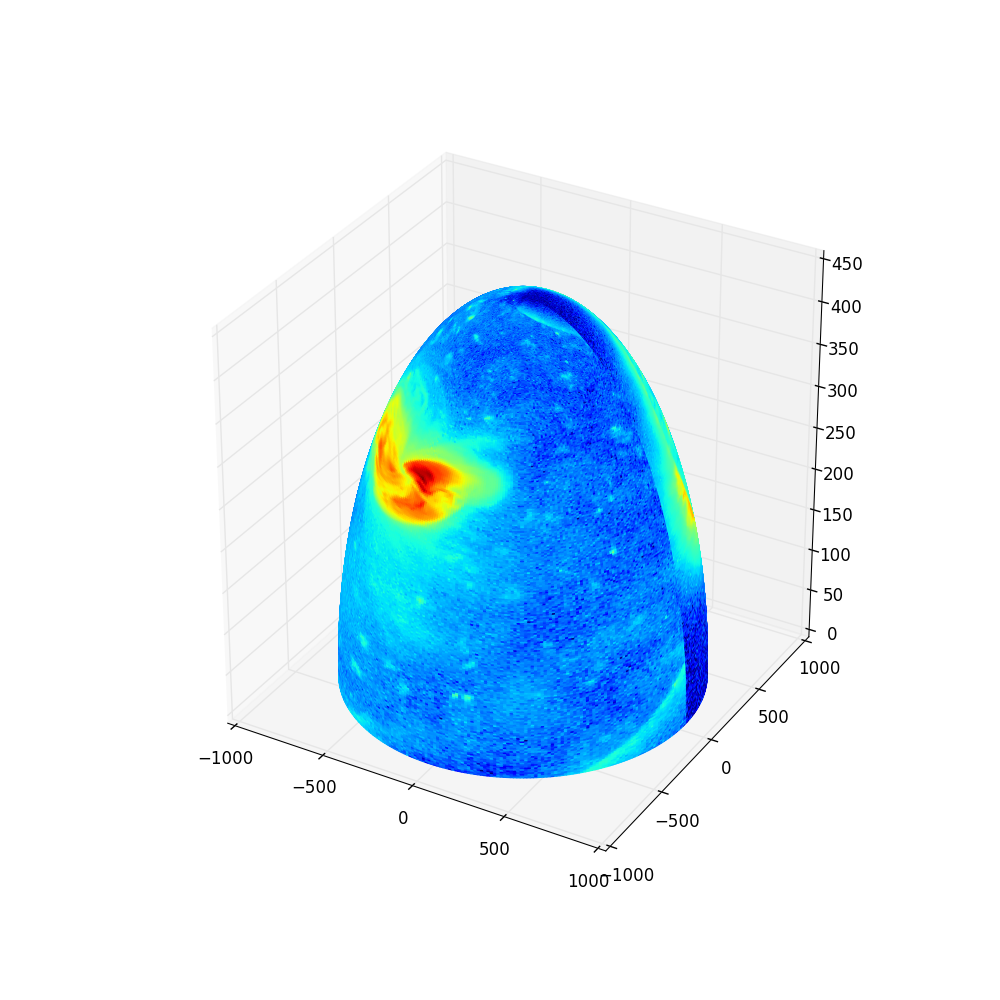
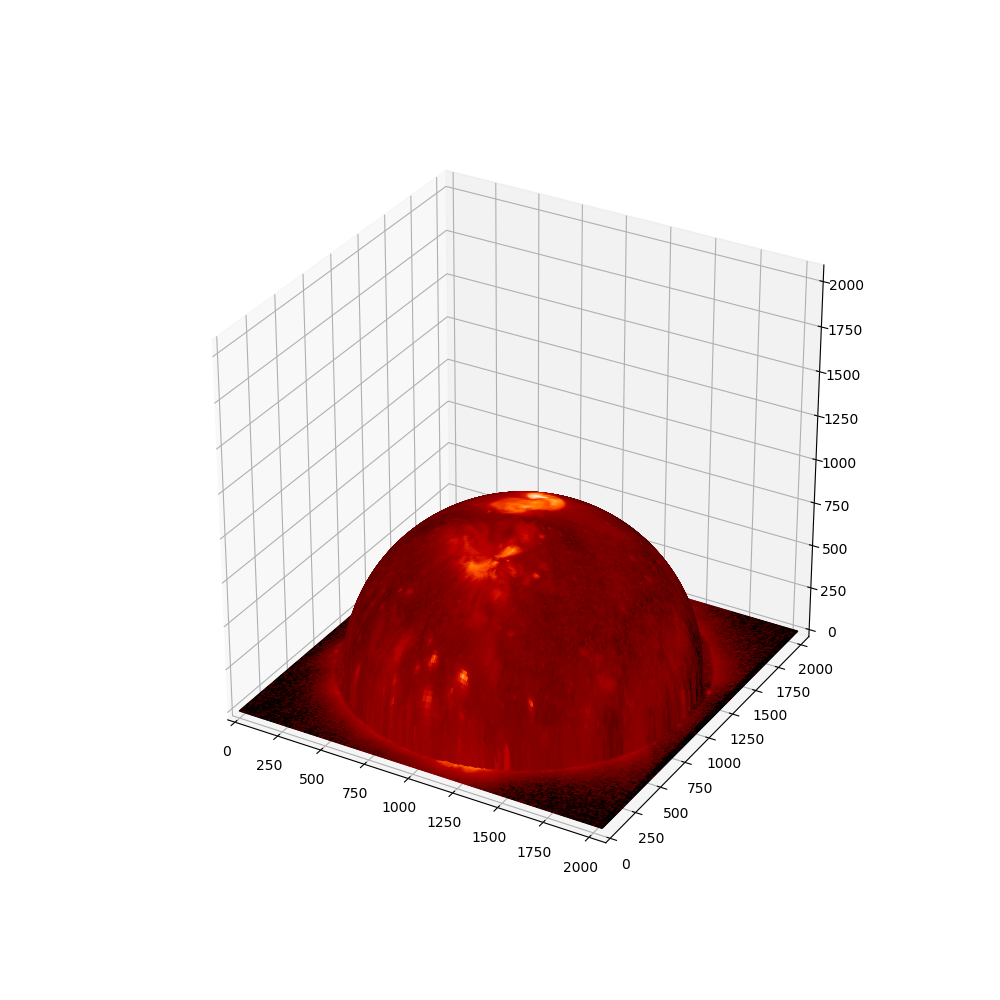
working 3D wrapping

diff --git a/3Dplotting/3Dplot.py b/3Dplotting/3Dplot.py
@@ -2,43 +2,53 @@ import numpy as np
 import matplotlib.pyplot as plt
 import matplotlib.colors
 from mpl_toolkits.mplot3d import Axes3D
-import sunpy.io as io
+#import sunpy.io as io
 from matplotlib._png import read_png
 from PIL import Image
 
-data = io.read_file('2007_02_02__12_02_58_608__HINODE_XRT_COMP.jp2', filetype='jp2')
-header = io.read_file_header('2007_02_02__12_02_58_608__HINODE_XRT_COMP.jp2')
+#data = io.read_file('2007_02_02__12_02_58_608__HINODE_XRT_COMP.jp2', filetype='jp2')
+#header = io.read_file_header('2007_02_02__12_02_58_608__HINODE_XRT_COMP.jp2')
 
 headerList = []
 
 dist_earth_to_sun = 148000000 #in km, changes depending on time
 degree_per_arcsec = 1./3600. 
 rad_per_degree = np.pi/180
-square_km_per_pixel = (np.sin((degree_per_arcsec * rad_per_degree / 2))
- * dist_earth_to_sun * 2)**2
+km_per_pixel = (np.sin((degree_per_arcsec * rad_per_degree / 2))
+ * dist_earth_to_sun * 2)
+square_km_per_pixel = km_per_pixel**2
 
-XCEN = header[0].__getitem__('XCEN')
-YCEN = header[0].__getitem__('YCEN')
-DATEOBS = header[0].__getitem__('CTIME')
-NAXIS1 = header[0].__getitem__('NAXIS1')
-NAXIS2 = header[0].__getitem__('NAXIS2')
+#XCEN = header[0].__getitem__('XCEN')
+#YCEN = header[0].__getitem__('YCEN')
+#DATEOBS = header[0].__getitem__('CTIME')
+#NAXIS1 = header[0].__getitem__('NAXIS1')
+#NAXIS2 = header[0].__getitem__('NAXIS2')
 
-#image = data[0][0]
+#image = data[0][0] #gets the data from the jp2 file, however this format does not work with the the plot surface, instead it is converted to a png in an oustide program
 image = read_png('2007_02_02__12_02_58_608__HINODE_XRT_COMP.png')
 
+xDimen = image.shape[0]
+yDimen = image.shape[1]
+
+#Used for the 2d plane in a 3d diagram
 #x, y = np.mgrid[0:image.shape[0], 0:image.shape[1]]
 #z = np.zeros((image.shape[0], image.shape[1]))
 
-r = 900        #determines the size of the sphere
-pi = np.pi
-cos = np.cos
-sin = np.sin
-phi, theta = np.mgrid[0:pi/2.:1800j, 0:2.*pi:1800j] #it is pi/2 to create a hemisphere
+r = 900.        #determines the size of the sphere, should be radius of the sun in image
 
-#creates the 3d hemisphere to serve as the 'canvas' for the image
-x = r * sin(phi) * cos(theta)
-y = r * sin(phi) * sin(theta)
-z = r/2. * cos(phi)
+x, y = np.mgrid[0:xDimen, 0:yDimen]
+zlist = []
+
+for xpoint in range(xDimen):
+	xrow = []
+	for ypoint in range(yDimen):
+		if(np.sqrt((xpoint-(xDimen/2.))**2. + (ypoint-(yDimen/2.))**2.) >= r):
+			xrow.append(0)
+		else:
+			xrow.append(np.sqrt(r**2. - (xpoint-(xDimen/2.))**2. - (ypoint-(yDimen/2.))**2.))
+	zlist.append(xrow)
+
+z = np.asarray(zlist)
 
 fig = plt.figure(figsize=(10.,10.))
 
@@ -56,6 +66,11 @@ fig = plt.figure(figsize=(10.,10.))
 #2D drawing in a 3D plane
 ax2 = fig.add_subplot(111, projection='3d')
 
+#uniform scaling
+ax2.set_xlim3d(0, 2048)
+ax2.set_ylim3d(0, 2048)
+ax2.set_zlim3d(0, 2048)
+
 #rstride and cstride determine how frequently values are taken from the arrays and plotted, lower stride yields higher resolution
 #norm is the instance of the Normalize class that is used to map the inputted values to actual colors, this input is not needed
 #cmap is a color map for the surface patches. This line isn't necessary but makes the colors better
@@ -63,7 +78,7 @@ ax2 = fig.add_subplot(111, projection='3d')
 #	They then match up with the cmap inputted which is the same
 #antialiased determines whether or not the figure is drawn with antialiasing
 
-ax2.plot_surface(x, y, z, rstride=5, cstride=5, antialiased=True, cmap=plt.cm.jet,
-facecolors=plt.cm.jet(image))#, norm = norm)
+ax2.plot_surface(x, y, z, rstride=10, cstride=10, antialiased=True, cmap=plt.cm.gist_heat,
+facecolors=plt.cm.gist_heat(image))#, norm=norm)
 plt.show()
-#plt.savefig('3d.png')
+plt.savefig('3d.png')
